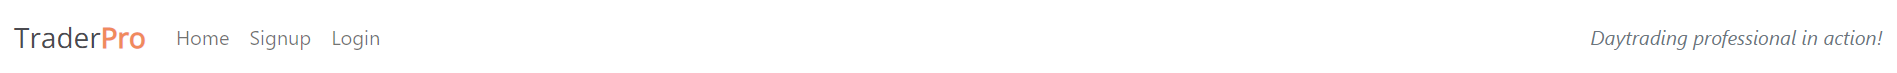
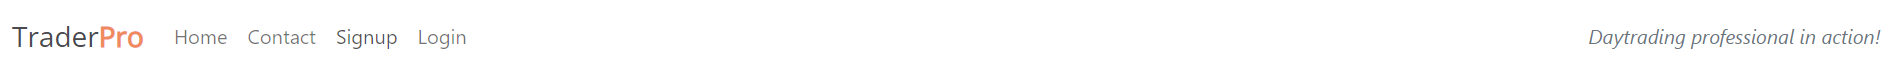
Update readme.md file

Changed region(s): [[0.0, 0.3611, 0.2493, 0.6944], [0.8415, 0.4167, 0.9974, 0.6944]]

diff --git a/static/css/style.css b/static/css/style.css
@@ -138,12 +138,6 @@ body {
     text-transform: uppercase;
 }
 
-.delete_comment,
-.edit_comment {
-    color: #F08A5D;
-    padding-right: 10px;
-}
-
 /* buttons */
 
 .btn-signup {

diff --git a/blog/views.py b/blog/views.py
@@ -146,7 +146,7 @@ def delete_own_comment(request, id=None):
 
 def edit_own_comment(request, comment_id):
     """
-    Edit comment
+    Edit own comment.
     """
     comment = get_object_or_404(Comment, id=comment_id)
     if request.method == 'POST':

diff --git a/blog/models.py b/blog/models.py
@@ -77,6 +77,6 @@ class Contact(models.Model):
     email = models.EmailField()
     subject = models.TextField(max_length=200)
     message = models.TextField(max_length=200)
-    
+
     def __str__(self):
         return self.name

diff --git a/README.md b/README.md
@@ -3,16 +3,16 @@
 This blog will have blogposts/information about daytrading added by me weekly, so this blog will have alot of posts about daytrading in the future... so bookmark this blog now: https://daytradingblog.herokuapp.com/
 <br/><br/>
 
-![blog will work in any media browser](static/images/responsive_design.png)
+![blog will work in any media browser](static/images/daytrading_blog.png)
 <br/><br/>
 
 ## Features
 
-When a user performs an action on the site, he/she will get an alert message at top of page that automatically disappear in 3,5 sec. (actions: signup, login, logout, commenting blogpost)
+When a user performs an action on the site, he/she will get an alert message at top of page that automatically disappear in 3,5 sec. (actions: signup, login, logout, comment blogpost, delete blogcomment, edit blogcomment)
 
 * **Header navigation bar**
 
-    - The navigation bar includes links to Home, Signup and Login (and a logo-link), and also a short message.
+    - The navigation bar includes links to Home, Contact, Signup and Login (and a logo-link), and also a short message.
     - This full responsive navigation bar allow all users to easy navigate to all pages on this site, without the need of the "back" button.
     - This bar also have a hover effect that change color with mousehover.
 
@@ -69,6 +69,20 @@ When a user performs an action on the site, he/she will get an alert message at 
 ![logout image](static/images/logout.png)
 <br/><br/>
 
+* **Edit comment**
+
+    - When a user want to edit their own comment, he/she can click on "Edit" button under their comment.
+
+![logout image](static/images/edit_comment.png)
+<br/><br/>
+
+* **Delete comment**
+
+    - When a user want to delete their own comment, he/she can click on "Delete" button under their comment.
+
+![logout image](static/images/delete_comment.png)
+<br/><br/>
+
 * **Blogpost page**
 
     - First there is a blogpost image that is relevant to the topic.
@@ -76,19 +90,40 @@ When a user performs an action on the site, he/she will get an alert message at 
     - Below the title the user can read the full blogpost text.
     - And below the text there is a 'like-button' that also show the like-counts (formed as a heart), and a 'comment' count. Logged in users can 'like' and 'unlike' a blogpost, and when user comment a blopgpost it will add +1 to the comment count.
     - At bottom there's a comment section. Here will all the comments that are posted on a specific blogpost be shown. If a user is logged in, he/she can write a comment (a comment need to be approved by an admin user). If user is not logged in, he/she can only read the comments (not post a comment).
+    - The user can also delete/edit their own comment. Buttons for this are under the users comments.
 
 ![blogpost image](static/images/blogpost_image.png)
 
 ![blogpost text and like/comment count](static/images/blogpost_text.png)
 
-![blogpost comments](static/images/comment_section.png)
+![blogpost comments](static/images/delete_edit_comment.png)
 <br/><br/>
 
-## Wireframes
+* **Contact page**
 
-I followed this design: https://startbootstrap.com/previews/clean-blog
+    - If the user want to contact this site, he/she can input their information and press send.
+    - The contact information the user send, can be found in django admin panel under "Contacts".
+
+![blogpost text and like/comment count](static/images/contact_us.png)
+
+## Wireframes and design
+
+I followed this design for a rough idea how I wanted the site to look like: https://startbootstrap.com/previews/clean-blog
 <br/>
-(I did a few changes to the better)
+(I did a few changes to the better.)
+
+* **Colors and fonts**
+
+    - Background color: #F9FAFC
+    - Logo color: #4A4A4F and #F08A5D
+    - Body font color: #000000
+    - Button color: #F08A5D
+    - Heading font color: #000000
+    - Fonts used: 'Lato' and 'Open Sans'.
+
+I chose colors that clearly marks and seperate parts of the site, so the user easily can navigate throughout all pages. The typograpghy I chose is easily readable and give a professional look. I chose a few bootstrap codes, because of the 'fully responsive' aspect (https://getbootstrap.com/)
+
+![blogpost text and like/comment count](static/images/wireframe.png)
 <br/><br/>
 
 ## Django administration
@@ -102,8 +137,9 @@ I followed this design: https://startbootstrap.com/previews/clean-blog
     - Delete comments: As an admin, you can delete comments whether they are approved or not.
     - Filter blog posts: As an admin, you can filter the blog posts by date.
     - Delete users: As an admin, you can delete users if you need to.
+    - Submitted contacts: As an admin, you can view messages sent by users, through the 'site contact form'.
 
-![django admin panel](static/images/django.png)
+![django admin panel](static/images/django_admin.png)
 <br/><br/>
 
 ## UX
@@ -117,6 +153,8 @@ I bet the user will read all the blog posts.
 NEW USER: I am interested in Daytrading and wanna know more about this lifestyle!<br/>
 RETURNING USER: User can come back weekly, as new blogposts are added once a week.
 
+(All 'CRUD' functionalities is available for users in the front end.)
+
     - Site pagination: As a Site User I can view a list of posts so that I can select which post to view.
     - View post list: As a Site User I can view a list of posts so that I can select one to read.
     - Open a post: As a Site User I can click on a post so that I can read the full text.
@@ -125,12 +163,14 @@ RETURNING USER: User can come back weekly, as new blogposts are added once a wee
     - Account registration: As a Site User I can register an account so that I can comment and like.
     - Comment on a post: As a Site User I can leave comments on a post so that I can be involved in the conversation. (comments need to be approved by an admin)
     - Like/Unlike: As a Site User I can like or unlike a post so that I can interact with the content.
+    - Edit comment: As a Site User I can edit my own comments so that I can change my oppinion.
+    - Delete comment: As a Site user I can delete my own comment so that it dissapears from the site.
+
 
 * **Future updates**
 
-    - Add a contact section, so users easily can contact me using a form.
     - Add alot more blogposts, and a filter so users easily can sort the blogposts how they want.
-    - Add more features for the users, such as deleting/change their own comment posts, delete their accounts etc.
+    - Add a function so that a user can edit/delete their accounts etc.
 <br/><br/>
 
 * **Site goal**
@@ -146,11 +186,11 @@ RETURNING USER: User can come back weekly, as new blogposts are added once a wee
 
 ## Testing
 
-Manually tested all links, buttons on every page in different browsers with no errors. Create new account, login, logout and post a comment works perfectly.
+Manually tested all links, buttons on every page in different browsers with no errors. Create new account, login, logout, edit comment, delete comment, and post a comment works perfectly.
 <br/> 
 Everything looks OK (and fully responsive).
 <br/><br/>
-In admin panel everything works - approve comments, delete comments, create blogposts, delete blogposts, see all user/admin accounts. There's even a 'filter' on the right, so you easily can navigate.
+In admin panel everything works - approve comments, delete comments, create blogposts, delete blogposts, view contact messages, see all user/admin accounts. There's even a 'filter' on the right, so you easily can navigate.
 <br/><br/>
 
 * **Validator testing**
@@ -223,7 +263,8 @@ https://codeinstitute.s3.amazonaws.com/fst/Django%20Blog%20Cheat%20Sheet%20v1.pd
 
 In order to have time to do a large project like this in such a short time (8 days, yepp you read it correct, do I have the student record? :)), I had to follow the Code Institute's guide (big credit) to be able to finish this website, and get it up and running without problems.
 Credit to my brother Daniel Junttila for working with me along the project.
-To complete this 'TraderPro blog', I used Code Institute student template: https://github.com/Code-Institute-Org/gitpod-full-template
+To complete this 'TraderPro blog', I used Code Institute student template (and from 'Code Institute Tutor' support): https://github.com/Code-Institute-Org/gitpod-full-template
+Also credit to "B Learning Club" for this tutorial on how to build a contact form: https://www.youtube.com/watch?v=lSgRWA4PMt4&list=LL&index=3
 <br/><br/>
 
 * **Content**
